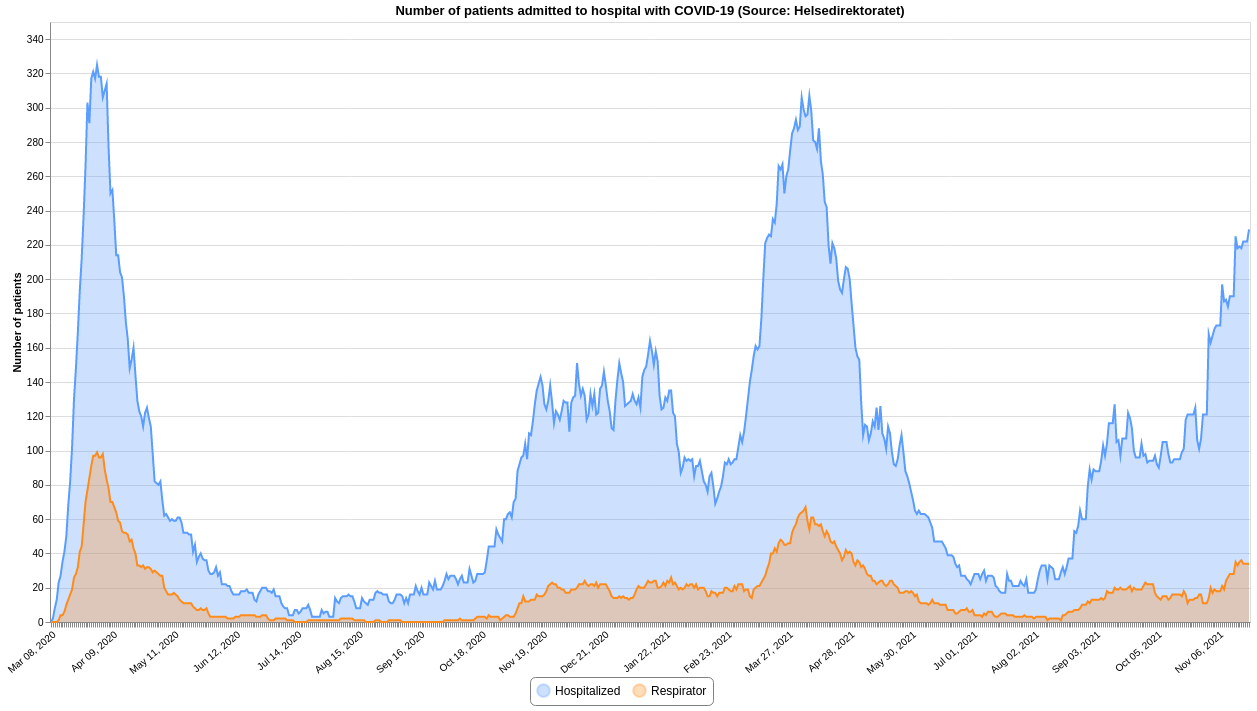
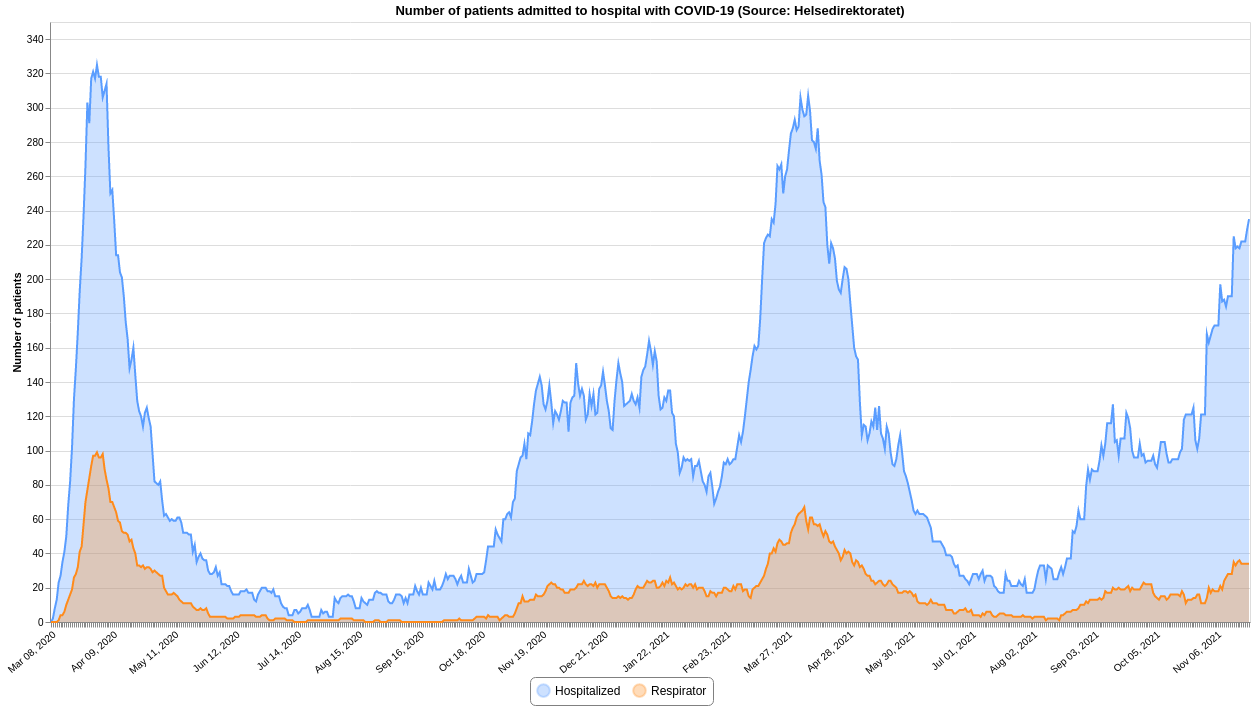
Updated 2021-11-23 12:20

diff --git a/README.md b/README.md
@@ -12,7 +12,7 @@ This repository contains datasets of daily time-series data related to COVID-19 
 | :--- | :--- | :--- | :--- | :--- |
 |[Confirmed](#confirmedcsv)|FHI / MSIS|2021-11-23 00:20:49+01:00|[<center>csv</center>](https://raw.githubusercontent.com/frefrik/covid19norge-data/main/data/confirmed.csv)|[<center>preview</center>](data/confirmed.csv)|
 |[Dead](#deadcsv)|FHI|2021-11-22 13:20:49+01:00|[<center>csv</center>](https://raw.githubusercontent.com/frefrik/covid19norge-data/main/data/dead.csv)|[<center>preview</center>](data/dead.csv)|
-|[Hospitalized](#hospitalizedcsv)|Helsedirektoratet|2021-11-22 12:50:50+01:00|[<center>csv</center>](https://raw.githubusercontent.com/frefrik/covid19norge-data/main/data/hospitalized.csv)|[<center>preview</center>](data/hospitalized.csv)|
+|[Hospitalized](#hospitalizedcsv)|Helsedirektoratet|2021-11-23 12:20:43+01:00|[<center>csv</center>](https://raw.githubusercontent.com/frefrik/covid19norge-data/main/data/hospitalized.csv)|[<center>preview</center>](data/hospitalized.csv)|
 |[Tested](#testedcsv)|FHI|2021-11-22 15:30:51+01:00|[<center>csv</center>](https://raw.githubusercontent.com/frefrik/covid19norge-data/main/data/tested.csv)|[<center>preview</center>](data/tested.csv)|
 |[Tested Lab](#tested_labcsv)|FHI|2021-11-22 13:20:46+01:00|[<center>csv</center>](https://raw.githubusercontent.com/frefrik/covid19norge-data/main/data/tested_lab.csv)|[<center>preview</center>](data/tested_lab.csv)|
 |[Transport](#transportcsv)|FHI|2021-09-24 23:10:46+02:00|[<center>csv</center>](https://raw.githubusercontent.com/frefrik/covid19norge-data/main/data/transport.csv)|[<center>preview</center>](data/transport.csv)|
